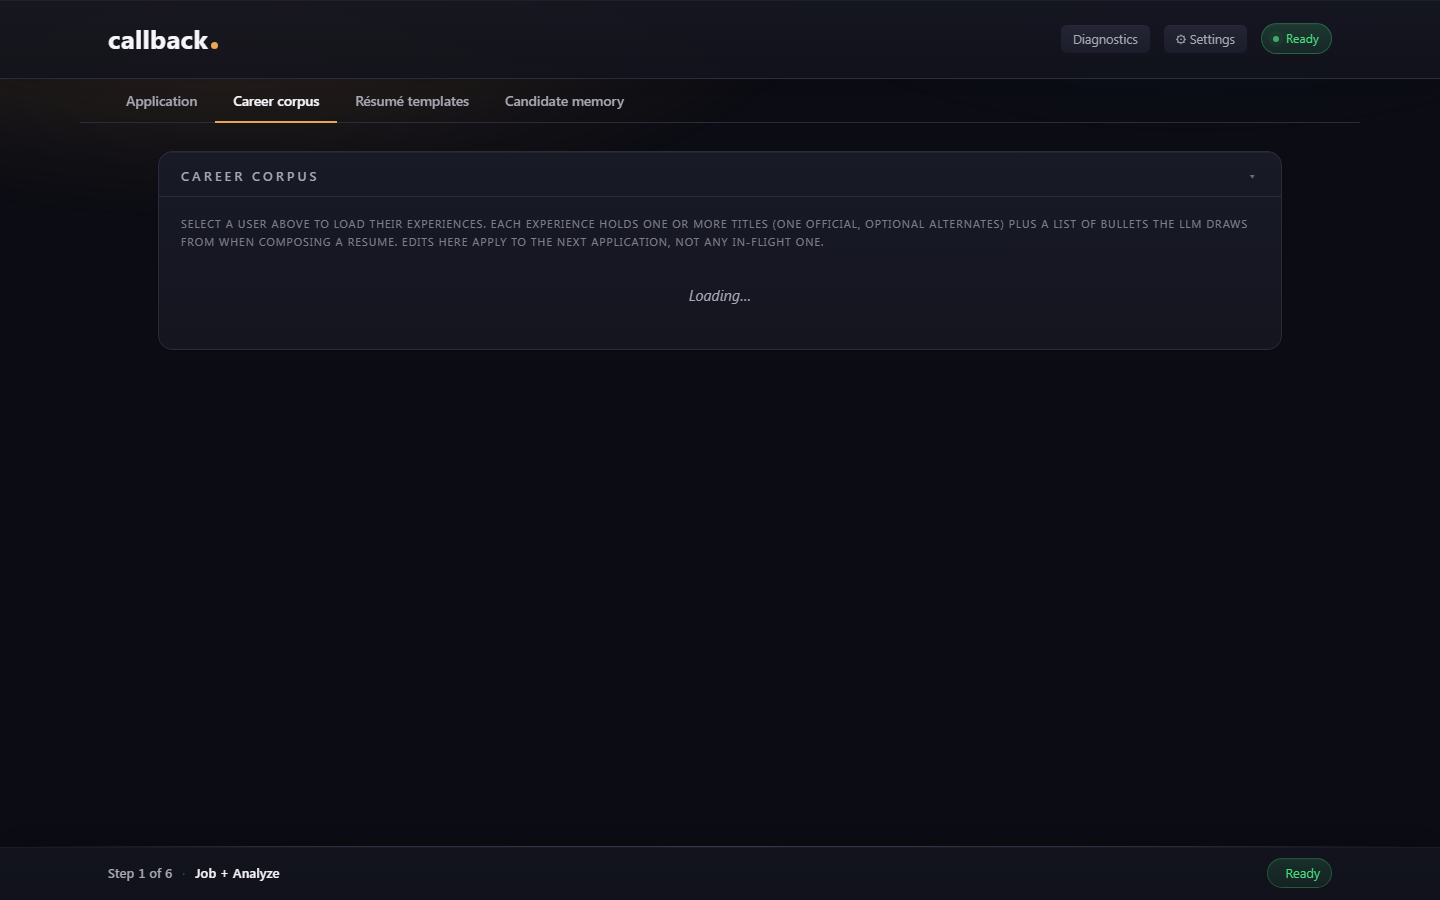
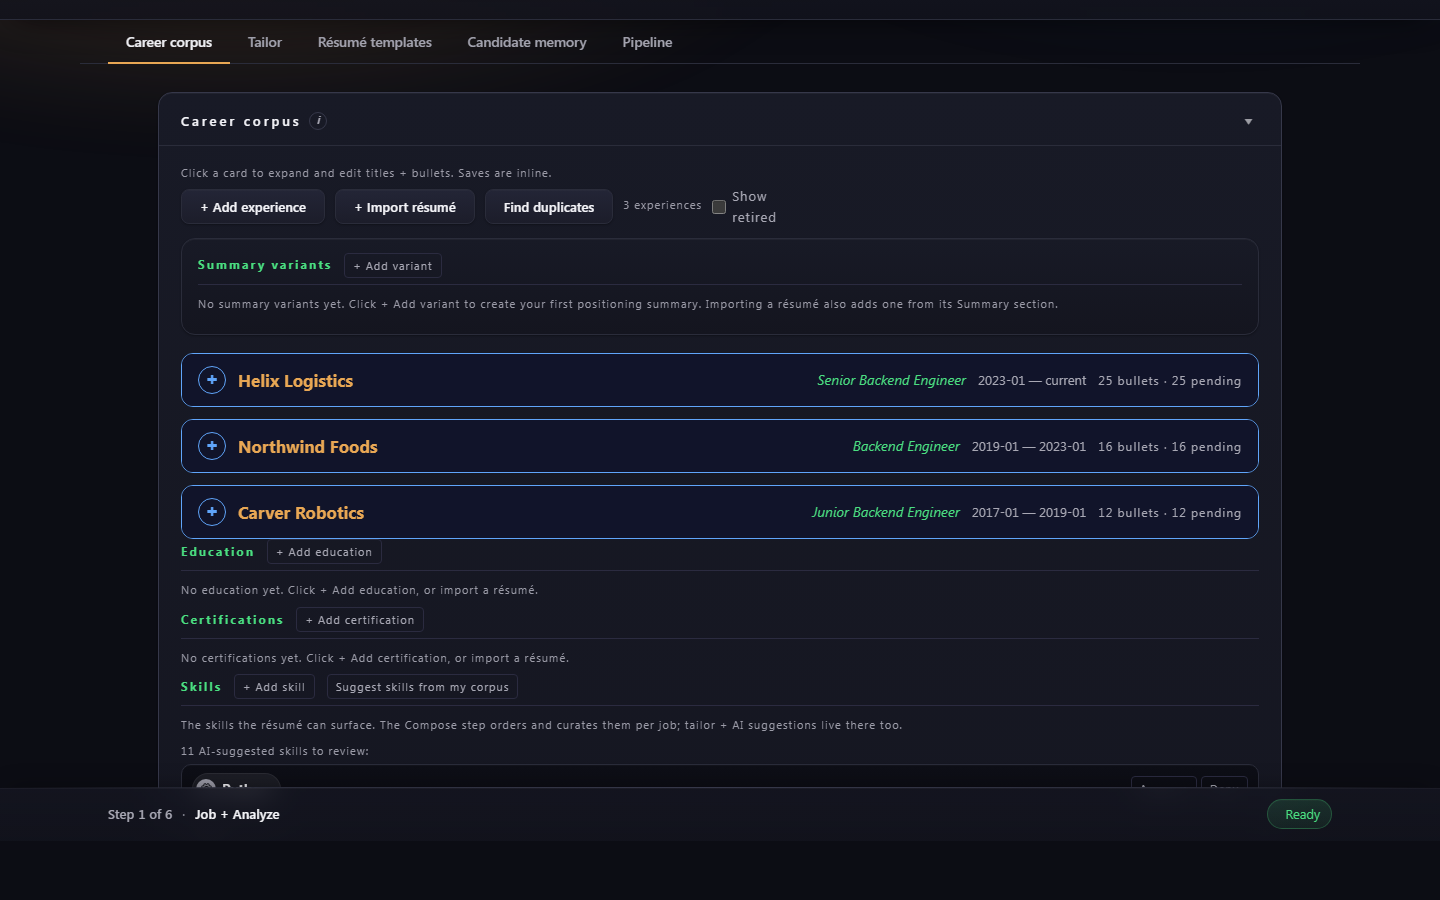
docs(screenshots): regenerate all 10 + README hero; capture fixture gets months (D4 step 4)
Item 9. Full headless capture (owner-approved, 4 paid runs total: run 1-2
failed at Generate, run 3 instrumented, run 4 green in 178.7s). Root cause
observed in run 3's Error-detail dialog: "3 role(s) need month precision
before generating" -- the synthetic Priya docx had year-only dates and
the month-precision gate refuses them; capture-smoke stops at Step 1 so
CI never reached Generate. Two hypotheses falsified on the way (reloader
restart; empty lastContextPath), both recorded in the dossier.

Fixture now carries month dates matching the demo rows; owner-directed
DB hygiene: the demo candidate's 3 year-only duplicate roles dropped
(backup first; FK check clean). README hero wired under "How it works";
runbook leads with the scripted path. All PNGs < 250 KB. Items 139
(capture leaves demo state) and 140 (bullet-id leak + invented letter
date, visible in two new shots) filed.

diff --git a/scripts/capture_screenshots.py b/scripts/capture_screenshots.py
@@ -116,9 +116,12 @@ def write_priya_docx(path: Path) -> None:
     doc.add_paragraph("priya.sharma@example.com · linkedin.com/in/priya-sharma")
 
     doc.add_heading("Experience", level=1)
+    # Month-level dates: generation refuses a role without start/end months
+    # (blueprints/generation.py:_month_block_response). Months match the rows earlier
+    # runs stored for the demo user, so a re-import merges instead of duplicating.
 
     doc.add_heading("Helix Logistics — Senior Backend Engineer", level=2)
-    doc.add_paragraph("2023 – Present")
+    doc.add_paragraph("Jan 2023 – Present")
     for bullet in [
         "Built and maintained Python services on the order-routing platform serving 4M+ daily shipments.",
         "Owned the order-events pipeline; helped migrate it off AWS SQS to Kafka over a six-month dual-write/cutover phase.",
@@ -132,7 +135,7 @@ def write_priya_docx(path: Path) -> None:
         doc.add_paragraph(bullet, style="List Bullet")
 
     doc.add_heading("Northwind Foods — Backend Engineer", level=2)
-    doc.add_paragraph("2019 – 2023")
+    doc.add_paragraph("Jan 2019 – Jan 2023")
     for bullet in [
         "Built Postgres-backed inventory and pricing services in Python and FastAPI.",
         "Tuned Postgres query plans and indexing for the catalog service; improved key endpoint throughput 3x.",
@@ -146,7 +149,7 @@ def write_priya_docx(path: Path) -> None:
         doc.add_paragraph(bullet, style="List Bullet")
 
     doc.add_heading("Carver Robotics — Junior Backend Engineer", level=2)
-    doc.add_paragraph("2017 – 2019")
+    doc.add_paragraph("Jan 2017 – Jan 2019")
     for bullet in [
         "Wrote Python services for the robot fleet's command-and-control layer.",
         "Built REST APIs in Flask for the operator console.",

diff --git a/docs/dev/blast-radius/docs-assets-enforcement.md b/docs/dev/blast-radius/docs-assets-enforcement.md
@@ -265,3 +265,104 @@ searches. One precompiled alternation per set, plus cheap prefilters, brought th
 - 5.6's `just` + imperative uses a closed verb list.
 - 5.3 checks that the type is present, not that it is right.
 - 5.9 is report-only.
+
+## Addendum — step 7: assistant audience gating (2026-10-01, before the edit)
+
+**Observed.** Each `doc_registry.PUBLISHED` entry was checked against
+`blueprints.assistant._path_audience` (a one-off script, output:
+`MISMATCH ACCESSIBILITY.md user Audience.DEV`). That was the only mismatch among 39 entries.
+`ACCESSIBILITY.md` is user-tier in the registry, but the assistant classes it `dev`, so a
+user-mode turn can never cite the accessibility page. The direction is safe (it under-
+rather than over-discloses), but it is drift.
+
+| # | Site | Decision | Rationale |
+|---|---|---|---|
+| 23 | `blueprints/assistant.py:101` (`_USER_DOC_NAMES`) | update | Add `ACCESSIBILITY.md`. Consumers: `GitGrepSource` (`:200`) and `VectorSource` (`:211`) take the resolver as a function, so neither signature changes. |
+| 24 | `tests/test_assistant_path_audience.py` | update | Registry as oracle: every `PUBLISHED` entry resolves to its tier (fails closed on the next drift). Edge cases: `docs/user/README.md`, `docs/dev/README.md`, `docs/work/`, `docs/ux/`, backslash paths. |
+| 25 | `docs/wiki/SCHEMA.md:100-107` (gated) | update | The user-tier row gains `ACCESSIBILITY.md`, and the stale "five Sprint-6.5 education guides" sentence is corrected (row 19). |
+
+Left as is, documented: a user-tagged wiki page reached through git-grep or the vector
+index resolves `dev` (path rule), while `WikiSource` serves it as `user`. This is
+conservative. The wiki tier is the canonical way user turns reach those pages.
+
+## Addendum — step 4: screenshot capture, run 1 failed (2026-10-01)
+
+**Observed.** `python -m scripts.capture_screenshots --headless` (owner-approved) captured 8
+of 10 shots, then failed at step 9:
+
+```
+playwright._impl._errors.TimeoutError: Page.wait_for_selector: Timeout 120000ms exceeded.
+  - waiting for locator("#outputPreviewBlock") to be visible
+    223 × locator resolved to hidden <div id="outputPreviewBlock" class="live-preview-block hidden">
+```
+
+The app log shows `2026-10-01 14:35:19,030 [werkzeug] INFO:  * Restarting with stat`, which
+lines up with this session's edit to `blueprints/assistant.py` (step 7). The debug reloader
+restarted the server during the in-flight Generate call. **The cause was the session's own
+concurrent edit, not a product defect.** Run 2 started with no `.py` edits allowed until it
+finished.
+
+Side finding: the script's `cleanup()` runs only on success (it is not in a `finally`), so the
+failed run left `configs/demo.config`, `resumes/demo/` and `output/demo/` behind. Run 2
+reuses them.
+
+**Correction (run 2, same day): the reloader explanation above was a hypothesis, and it is
+falsified.** Run 2 had no `.py` edits and failed the same way:
+
+```
+- waiting for locator("#outputPreviewBlock") to be visible
+  222 × locator resolved to hidden <div id="outputPreviewBlock" class="live-preview-block hidden">
+```
+
+`logs/llm_calls.jsonl` shows that in **neither** run was a generation call ever made. The
+last logged call in each run is Step 4's (run 1 `2026-10-01T21:33:28Z`, run 2 `21:47:32Z`).
+In run 1 the reload came at 21:35:19, almost two minutes into the 120 s wait. So the Generate
+click never started a generation request. What stops it is **not yet observed**.
+
+**Run 3 (instrumented, owner-approved; scratch wrapper around `run_step5_and_6`, capture script
+unchanged).** Events recorded at the Generate click:
+
+```
+state-before-generate  lastContextPath=C:\Dev\sartor\output\demo\context_20261001_151538.json  btnDisabled=false
+request   POST http://localhost:5000/api/generate/stream
+response  422  http://localhost:5000/api/generate/stream
+console   error "Failed to load resource: the server responded with a status of 422 (UNPROCESSABLE ENTITY)"
+```
+
+- **Falsified:** "`lastContextPath` is empty and the alert guard fires". It was set, and the
+  request went out.
+- **Observed:** the server refuses the generate request with a 422.
+- **Not yet observed:** why the server refuses it (the response body).
+
+**Root cause, observed** (run 3's failure screenshot, the app's own Error-detail dialog):
+
+```
+Stage:   Generate
+User:    demo
+When:    2026-10-01T22:16:23.982Z
+Message: 3 role(s) need month precision before generating: Helix L…
+```
+
+That text comes from `blueprints/generation.py:_month_block_response`, the month-precision
+hard block on both generate routes. The capture script's synthetic Priya résumé
+(`scripts/capture_screenshots.py`, built at `:105-180`) gives year-only dates, so Generate
+is refused before any LLM call. Steps 1–4 have no such gate. `capture-smoke.yml` runs only
+to Step 1 (`--smoke`), so CI could not have caught it: it is the "zero automated coverage"
+class the script's docstring already records.
+
+**Fix, owner-directed (2026-10-01).**
+- **Fixture.** The capture script's synthetic Priya résumé gets month dates ("Jan 2023 –
+  Present", "Jan 2019 – Jan 2023", "Jan 2017 – Jan 2019"). The owner confirmed month dates
+  are the enforced rule.
+- **Demo data.** The demo candidate (id 5) held 6 roles: 17–19 with months (`2023-01`…)
+  and 26–28 as year-only duplicates (`2023`…) from a later import. Owner: "if they are
+  dupes then keep the ones with months and drop the ones without". `db/resume.sqlite` was
+  backed up first (SQLite online backup, to session scratch). Rows 26–28 were deleted with
+  `PRAGMA foreign_keys=ON` (cascade: 22 bullets, 3 titles). Verified afterwards: no
+  `application_bullet` referenced them (0 rows), 0 orphan bullets, `foreign_key_check`
+  clean. The demo now has exactly rows 17–19. The fixture's "Jan" months match them, so
+  the next import merges instead of duplicating.
+
+| # | Site | Decision | Rationale |
+|---|---|---|---|
+| 26 | `scripts/capture_screenshots.py` (synthetic docx dates) | update | Consumers: the script itself and `.github/workflows/capture-smoke.yml` (Step 1 only, no Generate, so it is unaffected). |

diff --git a/docs/dev/screenshot-capture.md b/docs/dev/screenshot-capture.md
@@ -14,6 +14,21 @@
 
 ---
 
+## The automated path (use this)
+
+`scripts/capture_screenshots.py` does everything below in one run. It builds the synthetic
+Priya résumé, creates the `demo` user, drives the wizard headless and writes all 10 PNGs to
+`docs/screenshots/`:
+
+```bash
+python app.py                                        # in another shell
+python -m scripts.capture_screenshots --headless     # billed: a full wizard pass with the key in .api_key
+```
+
+Stop the app afterwards. The script removes the demo user's files on success, but not its
+database rows, so a later run merges into them (item 139). The manual steps below are the
+fallback and the record of what each shot should show.
+
 ## Pre-capture setup
 
 Before starting, set the app and environment to a clean, neutral
@@ -81,8 +96,7 @@ when Claude does the insertion pass.
   from a completed analyze call against the Vertica JD.
 - **Show:** full app viewport including wizard rail, both
   panels, and any visible Human Gate #1 indicator.
-- **Insertion site:** README.md, "The wizard at a glance" §,
-  after the ASCII block (line ~109).
+- **Insertion site:** README.md, "How it works" §, after the ASCII block.
 - **Alt-text draft:** *"Sartor's six-step wizard with Step 1
   active. The wizard rail at the top shows step progression;
   the right panel shows the analysis output that the user
@@ -97,7 +111,7 @@ when Claude does the insertion pass.
   highlighted, with the **+ Create user** affordance visible at
   the bottom of the dropdown.
 - **Insertion site:** docs/user/install.md, "First-run walkthrough"
-  §, after step 1 (line ~184).
+  §, after step 1.
 - **Alt-text draft:** *"The user picker dropdown in the
   top-right corner. Each user has their own corpus, settings,
   and output history."*
@@ -110,7 +124,7 @@ when Claude does the insertion pass.
   the shot *before* importing the synthetic résumé so it shows
   the empty state.
 - **Insertion site:** docs/user/walkthrough.md, "Setup (before the
-  wizard)" §, after "Import your existing résumé" (line ~144).
+  wizard)" §, after "Import your existing résumé".
 - **Alt-text draft:** *"The Career Corpus tab in its empty
   state. The + Import résumé button parses an existing résumé
   into the structured corpus (one Haiku call, ~$0.02)."*
@@ -123,10 +137,10 @@ when Claude does the insertion pass.
   right panel should be empty / placeholder. The Analyze button
   should be prominent.
 - **Insertion site:** docs/user/walkthrough.md, "Step 1 — Job +
-  Analyze" §, after "What you see" (line ~169).
+  Analyze" §, after "What you see".
 - **Alt-text draft:** *"Step 1 with the job description pasted
   into the left textarea. Clicking Analyze triggers a ~30–60s
-  Sonnet 4.6 call that fills the right panel with skill
+  Sonnet 5 call that fills the right panel with skill
   matches, gaps, and ATS warnings."*
 
 ### S05 — Step 1 post-analyze (P0)
@@ -137,7 +151,7 @@ when Claude does the insertion pass.
   potential gaps (with the team-leadership gap and the Kafka
   underdocumented call-out), ATS warnings (Kafka frequency).
 - **Insertion site:** docs/user/walkthrough.md, "Step 1 — Job +
-  Analyze" §, after "Verify before continuing" (line ~195).
+  Analyze" §, after "Verify before continuing".
 - **Alt-text draft:** *"Step 1 after analyze: the right panel
   shows skill matches, a gaps section, and ATS warnings. This
   is Human Gate #1 — the user reads it and decides whether to
@@ -151,7 +165,7 @@ when Claude does the insertion pass.
   words about Kafka migration scope) so the textarea state is
   realistic — not pristine, not finished.
 - **Insertion site:** docs/user/walkthrough.md, "Step 2 — Clarify"
-  §, after "What you see" (line ~206).
+  §, after "What you see".
 - **Alt-text draft:** *"The Clarify step with 4 targeted
   questions. Answers given here become legitimate source
   material for Step 5 generation."*
@@ -166,7 +180,7 @@ when Claude does the insertion pass.
   LLM-recommended bullet (with its proposal badge), and the
   summary variant picker at the top.
 - **Insertion site:** docs/user/walkthrough.md, "Step 3 — Compose"
-  §, after "What you see" (line ~248).
+  §, after "What you see".
 - **Alt-text draft:** *"The Compose step showing one experience
   card with pinned, excluded, and LLM-recommended bullets, plus
   the summary variant picker. Compose is a selection problem;
@@ -181,7 +195,7 @@ when Claude does the insertion pass.
   badges visible on each card. The "Page 1 of 2" counter
   visible.
 - **Insertion site:** docs/user/walkthrough.md, "Step 4 — Template"
-  §, after "What you see" (line ~293).
+  §, after "What you see".
 - **Alt-text draft:** *"The Template step with four ATS-safe
   templates shown as cards. Live preview re-renders on
   selection — no LLM call. The Page 1 of N counter reflects
@@ -196,7 +210,7 @@ when Claude does the insertion pass.
   role more"). Both **Download** and **+ Generate cover
   letter** buttons visible.
 - **Insertion site:** docs/user/walkthrough.md, "Step 6 — Download"
-  §, after "What you see" (line ~366).
+  §, after "What you see".
 - **Alt-text draft:** *"The Download step. The generated
   résumé preview is on the left; the Refine textarea on the
   right takes natural-language change requests. Each Refine
@@ -210,7 +224,7 @@ when Claude does the insertion pass.
   Generate cover letter** button has been clicked once. Refine
   textarea visible.
 - **Insertion site:** docs/user/walkthrough.md, "Optional — Generate
-  cover letter" § (line ~403).
+  cover letter" §.
 - **Alt-text draft:** *"The cover-letter generation surface.
   The cover letter is generated against the finalized résumé,
   with the same refine / iterate parity as the résumé flow."*

diff --git a/docs/dev/work/BOARD.md b/docs/dev/work/BOARD.md
@@ -2,7 +2,7 @@
 
 Generated from `docs/dev/work/items/` by `scripts/work_items.py` -- never hand-edited. Regenerate with `python -m scripts.work_items board --write`.
 
-**Open 35 / 10 ceiling -- OVER** | Blocked 4 | Deferred 9 | Watching 45 | Epics 6 | Closed 38
+**Open 37 / 10 ceiling -- OVER** | Blocked 4 | Deferred 9 | Watching 45 | Epics 6 | Closed 38
 
 ## Open
 
@@ -34,6 +34,7 @@ Generated from `docs/dev/work/items/` by `scripts/work_items.py` -- never hand-e
 - **133** -- There is no way to delete a candidate profile (`user`) -- No route, UI or script removes a user. Product decision: wanted, and when?
 - **136** -- block-merge-to-main blocks commands that only contain merge-to-main text (grep patterns, heredoc bodies) (`agent`) -- _MERGE_MAIN_RE searches raw command text, so a grep pattern or heredoc line holding the phrase blocks.
 - **137** -- Review current Claude models and call settings for performance and cost (`agent`) -- Short review: are the pinned models and call settings (thinking, caching, routing) still the best performance/cost fit?
+- **140** -- LLM output leaks internal bullet ids (b173, b180) into user text, and the cover letter invents its date (`agent`) -- Prompts hand bullets to the model as id="b{id}"; the model echoes the handle into prose. Letter date is ungrounded.
 
 ## Blocked
 
@@ -143,6 +144,7 @@ IA research + design; full user/dev docs split; user + dev content; screenshots,
 - **134** -- Diagnostics console: the Tuning smoke cost estimate contradicts the Quality smoke estimate (`agent`) -- Tuning smoke says ~$0.20 for TWO suite runs; Quality smoke says ~$0.35-0.40 for ONE. At most one is right.
 - **135** -- Copies of the close-out protocol drift from docs/dev/maintainer-lane.md: the template's step 1 and charter.md:206's step number (`user`) -- Template close-out step 1 says ruff+mypy+pytest (gate runs 6); charter:206 cites step 4 for a step-5 rule.
 - **138** -- The Settings drawer has no help bubble (`user`) -- _initHelp attaches only to .cb-panel; Settings is a drawer, so it gets no (i) bubble or Learn more link.
+- **139** -- capture_screenshots leaves its demo user behind: cleanup skips on failure, and DB rows always persist (`agent`) -- cleanup() runs only on success; demo DB rows are never removed, so a stale import blocks later runs.
 
 ### 40 -- Final March epic E - the public v1.1.0 cut (blocked)
 

diff --git a/docs/dev/work/items/0140-llm-output-leaks-bullet-ids-and-invents-letter-date.md b/docs/dev/work/items/0140-llm-output-leaks-bullet-ids-and-invents-letter-date.md
@@ -1,0 +1,38 @@
+```toml
+schema = 1
+id = 140
+kind = "item"
+title = "LLM output leaks internal bullet ids (b173, b180) into user text, and the cover letter invents its date"
+status = "open"
+decision_owner = "agent"
+branches = ["feat/docs-assets-enforcement"]
+refs = [
+  "analyzer.py:1183",
+  "analyzer.py:2903",
+  "docs/screenshots/readme_hero_wizard-step1-filled.png",
+  "docs/screenshots/walkthrough_coverletter_first-generation.png",
+]
+summary = "Prompts hand bullets to the model as id=\"b{id}\"; the model echoes the handle into prose. Letter date is ungrounded."
+```
+
+**Observed (2026-10-01, D4 screenshot capture, live Sonnet 5 run, synthetic Priya fixture).**
+Both shots are committed on this branch:
+- **Step 1 analysis, "Where to focus" item 3** (`readme_hero_wizard-step1-filled.png`): "…the
+  real-time shipment tracking / routing engine domain match is implied by company name and
+  **b173** ('4M+ daily shipments')…"
+- **Cover letter** (`walkthrough_coverletter_first-generation.png`): "Earlier, at **b180**, I
+  led a monolithic-to-event-driven refactor…" The letter is also dated **"March 2025"**, on a
+  run made 2026-10-01.
+
+**Read in code, not yet proven as the mechanism.** Bullets reach the model as
+`<bullet id="b{b["id"]}" …>` (`analyzer.py:1183`), and no prompt rule found says the handle
+must not appear in prose. `generate_cover_letter_against_resume` (`analyzer.py:2903`) passes
+no date input, so the model makes one up.
+
+**Why it matters:** a user sees an internal id in their own analysis and, worse, in a cover
+letter they might send. An invented date on a letter is an ungrounded fact (charter C-3).
+
+**Fix direction.** This is a prompt change with `PROMPT_VERSION` discipline and an eval
+A/B. Two parts: a rule that ids are handles for `selected_bullets` only, never prose, with
+a worked NOT-OK example; and passing today's date into the cover-letter call. **Then
+recapture** the two screenshots above.

diff --git a/docs/dev/work/items/0139-capture-script-leaves-demo-state-behind.md b/docs/dev/work/items/0139-capture-script-leaves-demo-state-behind.md
@@ -1,0 +1,37 @@
+```toml
+schema = 1
+id = 139
+kind = "item"
+title = "capture_screenshots leaves its demo user behind: cleanup skips on failure, and DB rows always persist"
+status = "open"
+decision_owner = "agent"
+epic = 39
+branches = ["feat/docs-assets-enforcement"]
+refs = [
+  "scripts/capture_screenshots.py:408",
+  "scripts/capture_screenshots.py:536",
+  "docs/dev/blast-radius/docs-assets-enforcement.md",
+]
+summary = "cleanup() runs only on success; demo DB rows are never removed, so a stale import blocks later runs."
+```
+
+**Observed (2026-10-01, `feat/docs-assets-enforcement`, D4 step 4):**
+- Two capture runs failed at Generate, and each left `configs/demo.config`, `resumes/demo/`
+  and `output/demo/` behind. `cleanup()` (`scripts/capture_screenshots.py:408`) is called
+  only after a successful run (`:536`), not from a `finally`.
+- The demo candidate's database rows are never removed, by design (the comment at the end
+  of `cleanup()`). An earlier run had imported the synthetic résumé with year-only dates,
+  and those rows kept tripping the month-precision gate on every later run. The full
+  evidence trail is the D4 dossier's step-4 addendum. The owner had the stale rows removed
+  by hand on this branch.
+
+**Why it matters:** the capture's output depends on whatever earlier runs left in the
+owner's database, not only on the fixture. A run can fail, or show duplicate roles, for
+reasons the script never sees.
+
+**Fix direction (not built):**
+- Move `cleanup()` into a `finally`.
+- Have the script start from a known-empty demo candidate. That needs a delete path for a
+  candidate's corpus, which doesn't exist yet (item 133). Until it does, a pre-run check
+  that **refuses** when the demo candidate already holds roles would at least fail loudly
+  at the start, instead of at Step 5 after the paid calls.

diff --git a/CHANGELOG.md b/CHANGELOG.md
@@ -2974,6 +2974,16 @@ Closes the two residual follow-ups left open by `fix/packaging-install`
   registration, then the doc lints until no block remains. It names each rule's home rather
   than restating it. Its evaluation plan (with-skill against baseline, scored by the lints)
   is written but not yet run.
+- **Changed: all ten documentation screenshots are regenerated (item 9).** They had still
+  shown the old product name. The README now opens its "How it works" section with the
+  Step 1 screenshot.
+- **Fixed: the screenshot script can get past Generate again.** Its synthetic résumé used
+  year-only dates, which the month-precision rule refuses, so every full run stopped at
+  Step 5. The monthly smoke run stops after Step 1 and never saw it. The fixture now
+  carries months. The screenshot runbook now leads with the scripted path.
+- **Filed:** item 139 (the screenshot script leaves its demo user behind after a failed run)
+  and item 140 (generated text can echo internal bullet ids such as `b180`, and the cover
+  letter makes up its date; both are visible in two of the new screenshots).
 - **Filed:** item 137 (review the pinned models and call settings for performance and cost)
   and item 138 (the Settings drawer has no help bubble).
 

diff --git a/README.md b/README.md
@@ -115,6 +115,8 @@ A sequence of small, inspectable stages — full sequence + diagrams in [`docs/d
                      Optional: + generate a cover letter against the finalized résumé
 ```
 
+![Step 1 of Sartor's wizard: the pasted job description and Analyze button above, and the analysis below it, with keyword coverage and a numbered list of where to focus.](docs/screenshots/readme_hero_wizard-step1-filled.png)
+
 **Two required human gates** bracket the work; the clarification interviews between them are optional and cheap. **Discover, don't invent:** output is grounded in the union of (corpus + clarifying answers + the candidate's own typed edits); a grounding check and a deterministic witness metric measure that it holds — see [`generation-and-grounding`](docs/wiki/pages/generation-and-grounding.md) and [`docs/dev/GROUNDING_METRIC.md`](docs/dev/GROUNDING_METRIC.md).
 
 ---
